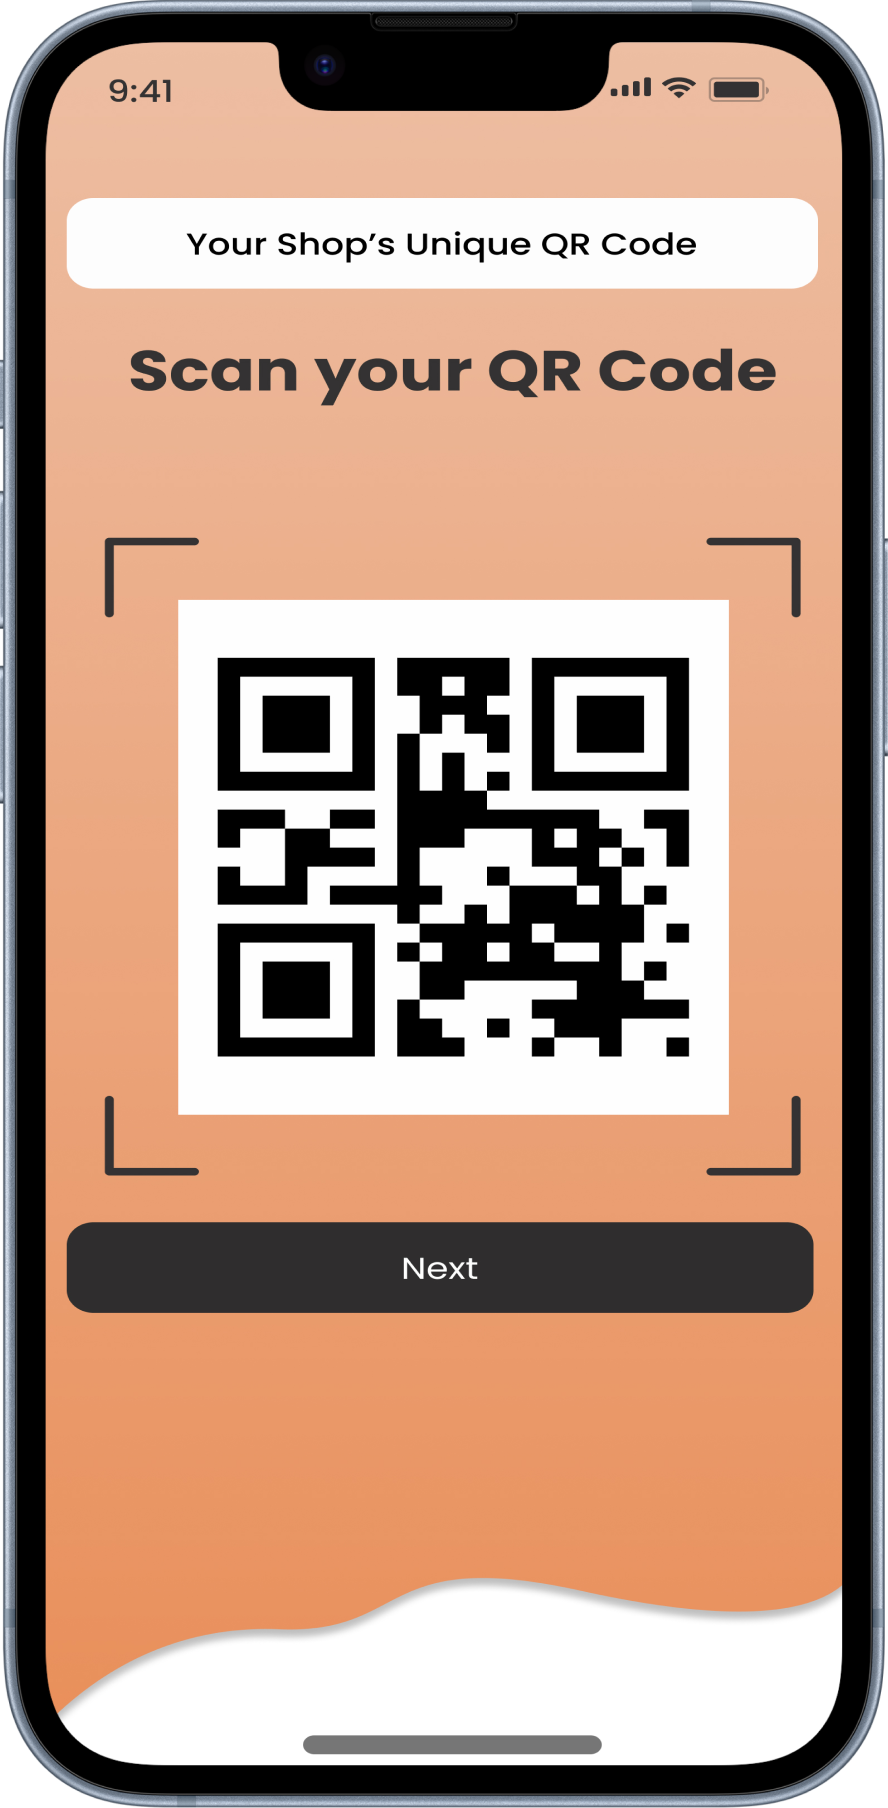
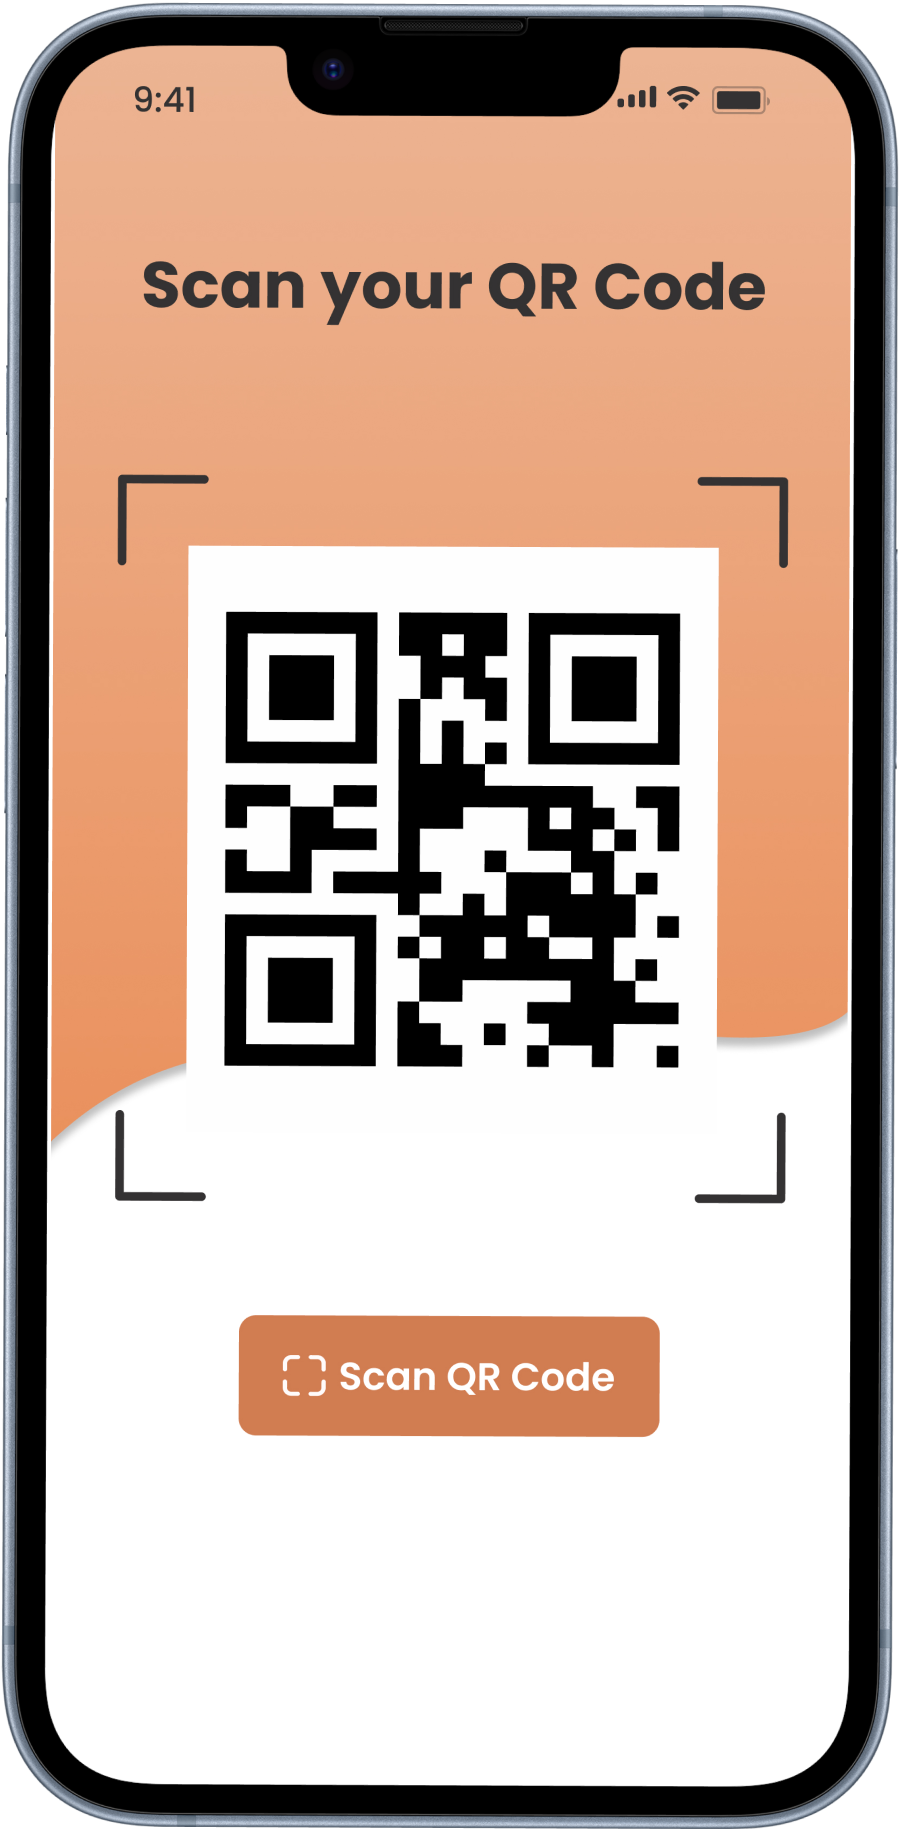
fixed owner image

diff --git a/src/components/Owner.jsx b/src/components/Owner.jsx
@@ -1,11 +1,10 @@
 import React, { useRef } from "react";
 import image from "../assets/images/owner/owner.png";
-import map from "../assets/images/owner/ownerPhn.svg";
+import map from "../assets/images/owner/ownerPhn2.png";
 import phn1 from "../assets/images/owner/phn1.png";
 import phn2 from "../assets/images/owner/phn2.png";
 import phn3 from "../assets/images/owner/phn3.png";
 import phn4 from "../assets/images/owner/phn4.png";
-import phn5 from "../assets/images/owner/phn5.svg";
 import phn6 from "../assets/images/owner/dashboard.png";
 
 import ScrollingPhones from "./ScrollingPhones";
